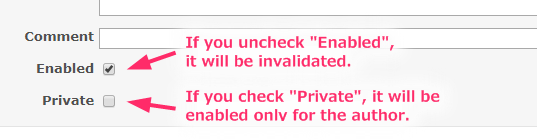
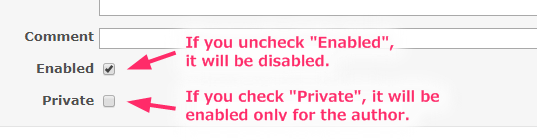
Update README

diff --git a/README.md b/README.md
@@ -1,52 +1,98 @@
-Redmine view customize plugin
-===========================
+# Redmine view customize plugin
 
 This a plugin allows you to customize the view for the [Redmine](http://www.redmine.org).
 
-Features
-------------
+## Features
 
-By adding JavaScript or CSS to the matched path, a screen is made customizable. 
+Customize the page by inserting JavaScript or CSS on the page that matched the condition.
 
-
-Installation
-------------
+## Installation
 
 Install the plugin in your Redmine plugins directory, clone this repository as `view_customize`:
 
-    cd {RAILS_ROOT}/plugins
-    git clone https://github.com/onozaty/redmine-view-customize.git view_customize
-    cd ../
-    bundle exec rake redmine:plugins:migrate RAILS_ENV=production
+```
+cd {RAILS_ROOT}/plugins
+git clone https://github.com/onozaty/redmine-view-customize.git view_customize
+cd ../
+bundle exec rake redmine:plugins:migrate RAILS_ENV=production
+```
 
 **note: The directory name must be a `view_customize`. Directory name is different, it will fail to run the Plugin.**
 
-Usage
-------------
+## Usage
 
-### Setting
+### Add
 
-1. After you install the Plugin, "View customize" the administrator menu is added.
-![Screenshot of admin menu](screenshots/admin.png)
-![Screenshot of list](screenshots/list_new.png)
-2. Add a new setting.
-![Screenshot of new](screenshots/new.png)
-3. Path pattern is specified with a regular expression. (ex. /issues/[0-9]+)
-If there is a match with the path of the page, the code(JavaScript/StyleSheet) is executed.
-![Screenshot of new path pattern](screenshots/new_pathpattern.png)
-4. Input code.
-![Screenshot of new JavaScript](screenshots/new_javascript.png)
-![Screenshot of new StyleSheet](screenshots/new_stylesheet.png)
-5. Matches the path, StyleSheet or JavaScrpt is embedded, the screen display is changed.
-![Screenshot of view JavaScript](screenshots/view_javascript.png)
-![Screenshot of view StyleSheet](screenshots/view_stylesheet.png)
+When installing the plugin, "View customize" is added to the administrator menu.
 
-Supported versions
-------------------
+![Screenshot of admin menu](screenshots/admin.en.png)
+
+Click "View customize" go to the list screen.
+
+![Screenshot of list new](screenshots/list_new.en.png)
+
+Click "New view customize" and enter items.
+
+![Screenshot of new](screenshots/new.en.png)
+
+"Path pattern" is specified by regular expression. If it matches the path of the page, insert the code and execute it.
+
+The following is an example.
+* `.*` : All pages
+* `/issues$` : Issue list
+* `/issues/[0-9]+` : Issue detail page
+
+"Insertion position" is the code insertion position. It becomes item added in v1.2.0.
+
+* "Head of all pages" (The same position as the version before v1.2.0)
+* "Bottom of issue form"<br>
+Issue input fields are reconstructed when trackers or statuses are changed. If "Bottom of issue form" is specified, it will be executed again when reconstructed.
+* "Bottom of issue detail"
+
+If there is no part corresponding to the insertion position of the code on the page, the code is not insert.
+For example, even if you specify `.*` in "Path pattern", if "Bottom of issue detail" is specified for "Insertion position", it will be executed only on the issue detail page.
+
+In "Type", select the type of code ("JavaScript" or "CSS") and enter the actual code in "Code".
+
+For "Comment" you can put an overview on customization. The contents entered here are displayed in the list display.
+When "Comment" is entered, "Comment" is displayed on the list.
+If "Comment" is not entered, "Code" is displayed in the list.
+
+Addition is completed by clicking "Create" button.
+
+The specified code is executed on the page that matches "Path pattern", and the page will be customized.
+
+![Screenshot of example](screenshots/example.en.png)
+
+### Edit / Delete
+
+![Screenshot of list edit](screenshots/list_edit.en.png)
+
+When you click the number of the customize list, go to the detail page.
+
+![Screenshot of detail](screenshots/detail.en.png)
+
+You can delete it by clicking "Delete".
+
+Click "Edit" to switch to the edit page.
+The input item is the same as when creating a new one.
+
+### Disable / Private
+
+You can disable it by unchecking "Enabled". If you check "Private", it will be enable only for the author.
+
+![Screenshot of enabled and private](screenshots/enable_private.en.png)
+
+If you check the operation with "Private" and there is no problem in operation, it will be good to release it to the all.
+
+## Examples
+
+* [onozaty/redmine\-view\-customize\-scripts: Script list for "Redmine View Customize Plugin"](https://github.com/onozaty/redmine-view-customize-scripts)
+
+## Redmine 2.0.x or later
 
 * Redmine 2.0.x or later
 
-License
--------
+## License
 
 The plugin is available under the terms of the [GNU General Public License](http://www.gnu.org/licenses/gpl-2.0.html), version 2 or later.

diff --git a/README.ja.md b/README.ja.md
@@ -75,6 +75,8 @@ Redmineのプラグインディレクトリに、このリポジトリを`view_c
 
 ![Screenshot of enabled and private](screenshots/enable_private.en.png)
 
+まずは「Private」で動作確認したうえで、動作に問題なければ全体に公開するといった使い方ができます。
+
 ## 設定例
 
 * [onozaty/redmine\-view\-customize\-scripts: Script list for "Redmine View Customize Plugin"](https://github.com/onozaty/redmine-view-customize-scripts)
